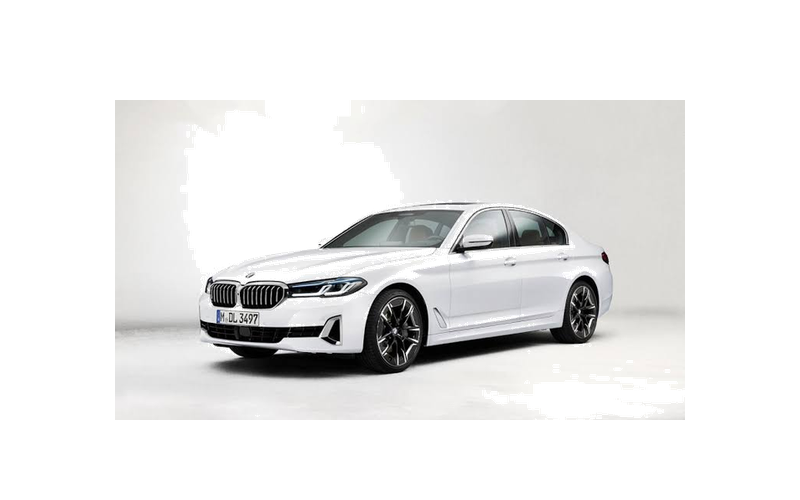
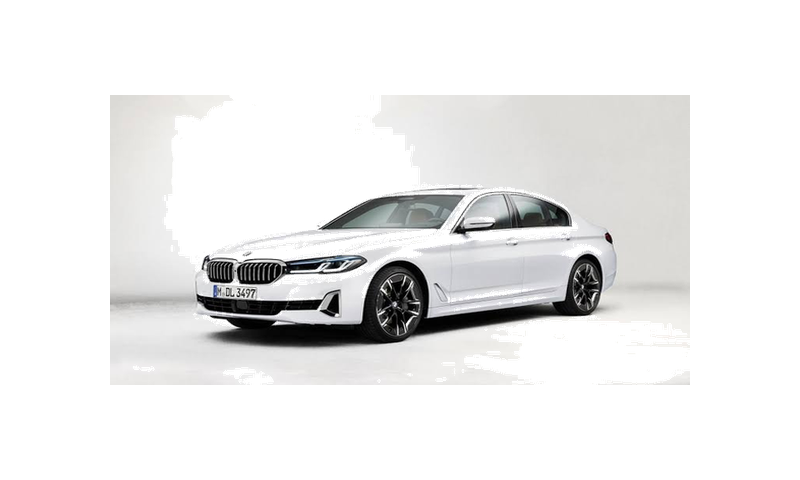
Enforce identical 580x290 vehicle dimensions and explicit 220x130px CSS rendering box across all pages

diff --git a/luxury-chauffeur-services/index.html b/luxury-chauffeur-services/index.html
@@ -279,7 +279,7 @@
 
           .fleet-card-img-box-lux {
             height: 160px;
-            padding: 10px 15px;
+            padding: 10px;
             display: flex;
             align-items: center;
             justify-content: center;
@@ -289,7 +289,8 @@
 
           .fleet-card-img-box-lux img {
             height: 130px;
-            width: 100%;
+            width: 220px;
+            max-width: 100%;
             object-fit: contain;
             transition: transform 0.3s ease;
           }

diff --git a/events-conferences/index.html b/events-conferences/index.html
@@ -249,7 +249,7 @@
 
       .fleet-card-img-box-lux {
         height: 160px;
-        padding: 10px 15px;
+        padding: 10px;
         display: flex;
         align-items: center;
         justify-content: center;
@@ -259,7 +259,8 @@
 
       .fleet-card-img-box-lux img {
         height: 130px;
-        width: 100%;
+        width: 220px;
+        max-width: 100%;
         object-fit: contain;
         transition: transform 0.3s ease;
       }

diff --git a/outstation-travel/index.html b/outstation-travel/index.html
@@ -245,7 +245,7 @@
 
       .fleet-card-img-box-lux {
         height: 160px;
-        padding: 10px 15px;
+        padding: 10px;
         display: flex;
         align-items: center;
         justify-content: center;
@@ -255,7 +255,8 @@
 
       .fleet-card-img-box-lux img {
         height: 130px;
-        width: 100%;
+        width: 220px;
+        max-width: 100%;
         object-fit: contain;
         transition: transform 0.3s ease;
       }
